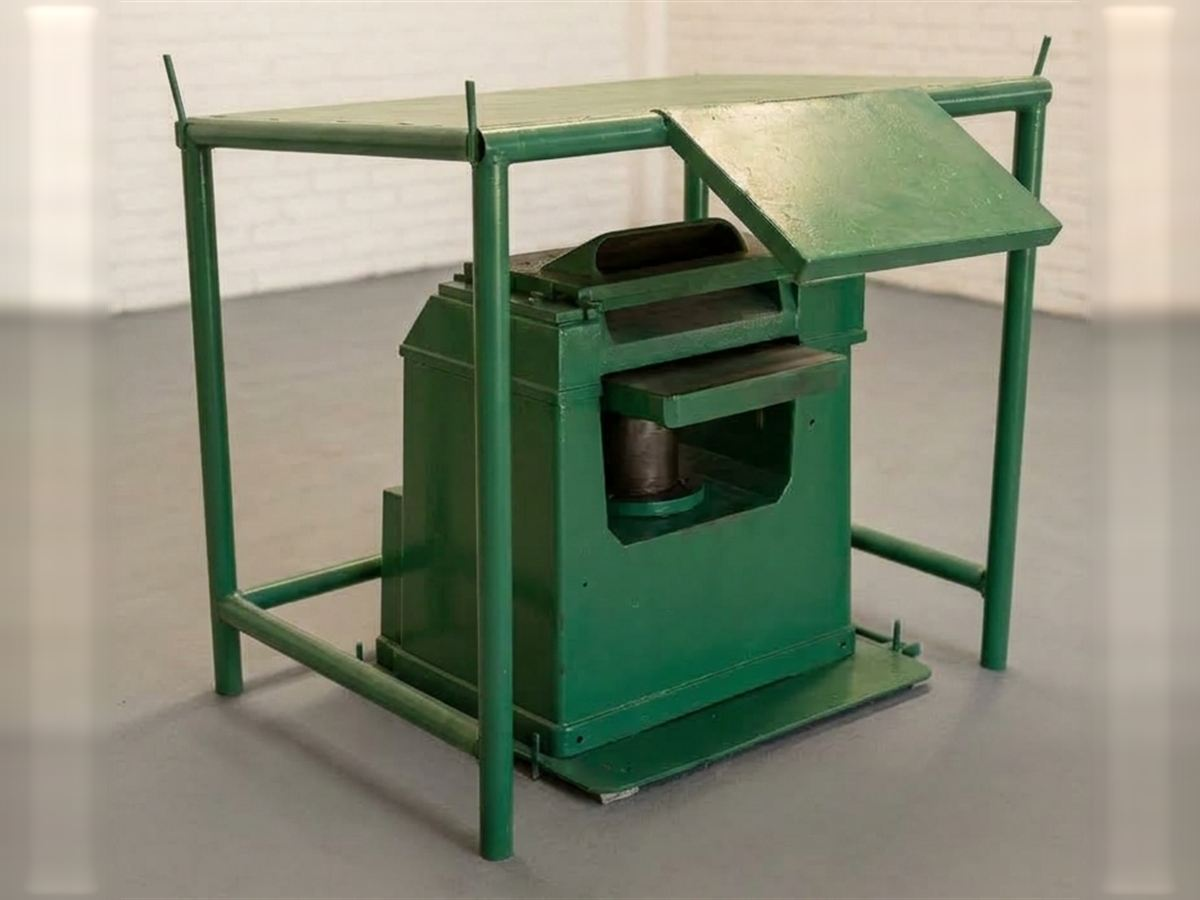
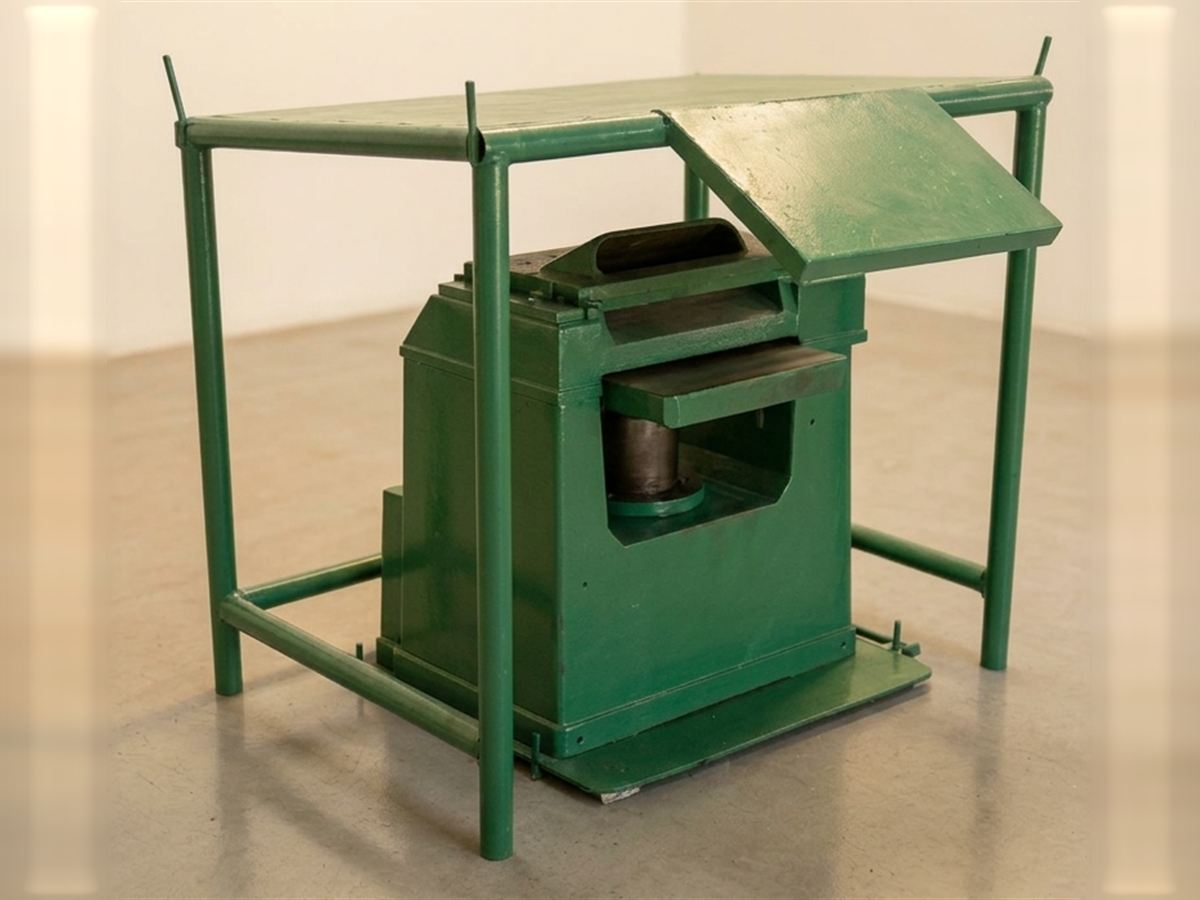
Cepilladora completa en inicio y cepillado

diff --git a/pagina_web/servicio-cepillado.html b/pagina_web/servicio-cepillado.html
@@ -199,7 +199,7 @@
                         <a href="index.html?producto=Cepillado%20profesional#contacto" class="btn-cotizar-submit">Cotizar este servicio</a>
                     </div>
                     <div class="col-lg-6">
-                        <img src="assets/img/servicios/cepilladora.jpg" alt="Cepilladora del Aserradero La Ceiba de Oro" class="servicio-img" style="aspect-ratio: 4 / 3; box-shadow: 0 10px 30px rgba(0, 0, 0, 0.15);">
+                        <img src="assets/img/servicios/cepilladora.jpg?v=3" alt="Cepilladora del Aserradero La Ceiba de Oro" class="servicio-img" style="aspect-ratio: 4 / 3; object-fit: cover; object-position: center center; box-shadow: 0 10px 30px rgba(0, 0, 0, 0.15);">
                     </div>
                 </div>
             </div>

diff --git a/index.html b/index.html
@@ -1,7 +1,14 @@
- <!DOCTYPE html>
-   <html>
-   <head>
-     <meta http-equiv="refresh" content="0; url=pagina_web/">
-   </head>
-   <body></body>
-   </html>
+<!DOCTYPE html>
+<html lang="es">
+<head>
+    <meta charset="utf-8">
+    <title>Aserradero La Ceiba de Oro</title>
+    <meta name="viewport" content="width=device-width, initial-scale=1">
+    <meta http-equiv="refresh" content="0; url=pagina_web/index.html">
+    <link rel="canonical" href="pagina_web/index.html">
+    <script>window.location.replace("pagina_web/index.html" + window.location.search + window.location.hash);</script>
+</head>
+<body>
+    <p>Redirigiendo… Si no pasa nada, entra a <a href="pagina_web/index.html">Aserradero La Ceiba de Oro</a>.</p>
+</body>
+</html>

diff --git a/pagina_web/index.html b/pagina_web/index.html
@@ -279,7 +279,7 @@
                     <div class="col-lg-6">
                         <div class="single-service-cap mb-30">
                             <div class="service-img">
-                                <img src="assets/img/servicios/cepilladora.jpg" alt="Cepilladora del Aserradero La Ceiba de Oro" class="img-contain" style="object-position: center;">
+                                <img src="assets/img/servicios/cepilladora-tarjeta.jpg?v=1" alt="Cepilladora del Aserradero La Ceiba de Oro" class="img-contain" style="object-fit: cover; object-position: center center;">
                             </div>
                             <div class="service-cap">
                                 <h4><a>Cepillado profesional</a></h4>

diff --git a/pagina_web/assets/css/style.css b/pagina_web/assets/css/style.css
@@ -170,18 +170,6 @@ p {
 	font-weight: normal
 }
 
-.bg-img-1 {
-	background-image: url(../img/slider/slider-img-1.jpg)
-}
-
-.bg-img-2 {
-	background-image: url(../img/background-img/bg-img-2.jpg)
-}
-
-.cta-bg-1 {
-	background-image: url(../img/background-img/bg-img-3.jpg)
-}
-
 .img {
 	max-width: 100%;
 	-webkit-transition: all .3s ease-out 0s;
